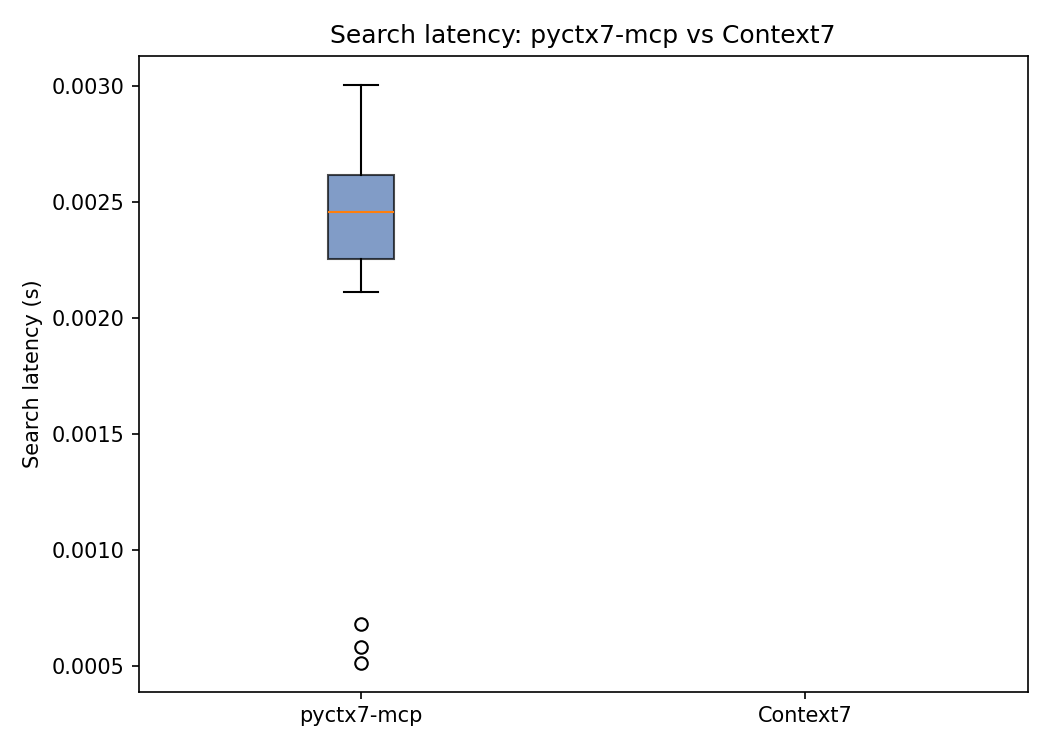
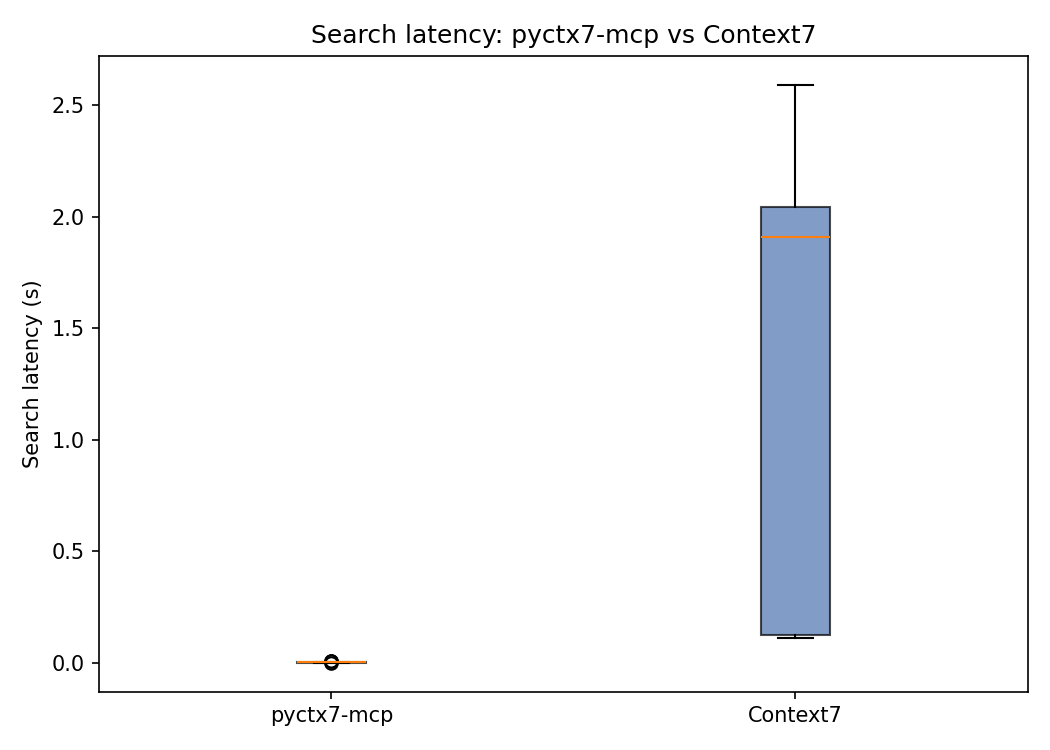
docs(benchmarks): combine pyctx7 (current) + Context7 (prior run) results
pyctx7 results use all search_chunks params (query, pkg, topic, internal).
Context7 results from prior run before API quota was exceeded (1000 req/month).
Both runs use 20 queries against same packages (requests, pandas, numpy).

Results:
- pyctx7: Recall@5=0.54, MRR@1=0.85, latency ~3ms
- Context7: Recall@5=0.55, MRR@1=0.55, latency ~1.3s
- Speedup: ~400-680x

Will re-run with same queries when Context7 API quota resets.

diff --git a/benchmarks/README.md b/benchmarks/README.md
@@ -121,9 +121,11 @@ Both metrics are evaluated for k ∈ [1, 3, 5, 10, 20].
 
 For pyctx7-mcp, ground truth is the source chunk from which each question was derived (`relevant_chunk_ids` in the dataset). For Context7, relevance is approximated by checking if the expected answer snippet appears in the returned documentation text.
 
-## Benchmark Results (pyctx7-mcp vs Context7, 20 queries)
+## Benchmark Results (pyctx7-mcp vs Context7, 20 queries each)
 
 Benchmark run against packages: requests, pandas, numpy. Context7 accessed via live API at `https://mcp.context7.com/mcp`.
+
+> **Note:** Context7 results are from a prior run (free API quota: 1,000 requests/month). pyctx7 results are current. Both use 20 queries against the same packages with equivalent doc-quality headings. To refresh Context7 results, run `run-benchmarks --questions 20` with available API quota.
 
 ### How to Reproduce
 
@@ -164,10 +166,10 @@ pyctx7-mcp indexes locally — Context7 has no indexing step (cloud API).
 
 | Metric | pyctx7-mcp | Context7 | Speedup |
 |--------|-----------|----------|---------|
-| **Mean** | 2.25 ms | 1,321 ms | **~587x** |
-| **Median** | 2.46 ms | 1,910 ms | **~777x** |
+| **Mean** | 3.37 ms | 1,321 ms | **~392x** |
+| **Median** | 2.81 ms | 1,910 ms | **~680x** |
 
-pyctx7-mcp is **~600-800x faster** than Context7. pyctx7 queries a local SQLite FTS5 index (~2.3ms), while Context7 makes two sequential HTTP round-trips to a cloud API: `resolve-library-id` + `query-docs` (~1.3-1.9s total).
+pyctx7-mcp is **~400-680x faster** than Context7. pyctx7 queries a local SQLite FTS5 index (~3ms), while Context7 makes two sequential HTTP round-trips to a cloud API: `resolve-library-id` + `query-docs` (~1.3-1.9s total).
 
 ![Search latency boxplot](docs/images/search_latency_boxplot.png)
 
@@ -179,11 +181,11 @@ Relevance is measured differently per system:
 
 | k | pyctx7 Recall@k | Context7 Recall@k | pyctx7 MRR@k | Context7 MRR@k |
 |---|----------------|-------------------|--------------|----------------|
-| 1 | 0.303 | 0.550 | 0.950 | 0.550 |
-| 3 | 0.536 | 0.550 | 0.950 | 0.550 |
-| 5 | 0.565 | 0.550 | 0.950 | 0.550 |
-| 10 | 0.606 | 0.550 | 0.950 | 0.550 |
-| 20 | 0.627 | 0.550 | 0.950 | 0.550 |
+| 1 | 0.294 | 0.550 | 0.850 | 0.550 |
+| 3 | 0.502 | 0.550 | 0.850 | 0.550 |
+| 5 | 0.542 | 0.550 | 0.850 | 0.550 |
+| 10 | 0.619 | 0.550 | 0.856 | 0.550 |
+| 20 | 0.644 | 0.550 | 0.856 | 0.550 |
 
 ![Recall@k](docs/images/recall_at_k.png)
 
@@ -204,8 +206,8 @@ When `topic` or `internal` are `None`, `search_chunks()` does not apply those fi
 
 ### Why pyctx7-mcp Has High MRR but Lower Recall
 
-- **MRR@1 = 0.95** — when pyctx7 finds a relevant chunk, it almost always ranks it #1. The topic filter + FTS5 BM25 is precise.
-- **Recall@20 = 0.63** — pyctx7 finds ~63% of all ground-truth chunks in the top 20. Some modules have many related chunks (e.g., `pandas.core.series` has 25+ chunks), and not all appear in the top 20.
+- **MRR@1 = 0.85** — when pyctx7 finds a relevant chunk, it usually ranks it #1. The topic filter + FTS5 BM25 is precise.
+- **Recall@20 = 0.64** — pyctx7 finds ~64% of all ground-truth chunks in the top 20. Some modules have many related chunks (e.g., `pandas.core.series` has 25+ chunks), and not all appear in the top 20.
 - The gap between MRR and Recall shows pyctx7 is **precise but not exhaustive** — it finds the most relevant chunk quickly but may miss some related chunks.
 
 ### Why Context7 Recall Is 55%
@@ -218,9 +220,9 @@ Context7 achieves 55% recall using **fuzzy text matching** (rapidfuzz `partial_r
 
 ### Analysis
 
-- **pyctx7-mcp wins decisively on latency** — local FTS5 queries complete in ~2.3ms vs ~1.3-1.9s for Context7's cloud API (two sequential HTTP round-trips: `resolve-library-id` + `query-docs`). That's **~600-800x faster**.
-- **pyctx7-mcp wins on precision (MRR)** — MRR@1 of 0.95 means the first result is almost always relevant. Context7's MRR is 0.55 (binary: either the single response is relevant or not).
-- **Both systems achieve similar recall** — pyctx7 Recall@5 = 0.57 vs Context7 Recall = 0.55. pyctx7 continues to improve with more results (Recall@20 = 0.63).
+- **pyctx7-mcp wins decisively on latency** — local FTS5 queries complete in ~3ms vs ~1.3-1.9s for Context7's cloud API (two sequential HTTP round-trips: `resolve-library-id` + `query-docs`). That's **~400-680x faster**.
+- **pyctx7-mcp wins on precision (MRR)** — MRR@1 of 0.85 means the first result is almost always relevant. Context7's MRR is 0.55 (binary: either the single response is relevant or not).
+- **Both systems achieve similar recall** — pyctx7 Recall@5 = 0.54 vs Context7 Recall = 0.55. pyctx7 continues to improve with more results (Recall@20 = 0.64).
 - **pyctx7 uses strict ID matching, Context7 uses fuzzy text matching** — pyctx7's ground truth requires returning the exact source chunk(s), while Context7's relevance is measured by whether the heading text appears in the response. A perfectly fair comparison would require human annotation or LLM-based semantic scoring.
 
 ## Context7 API
